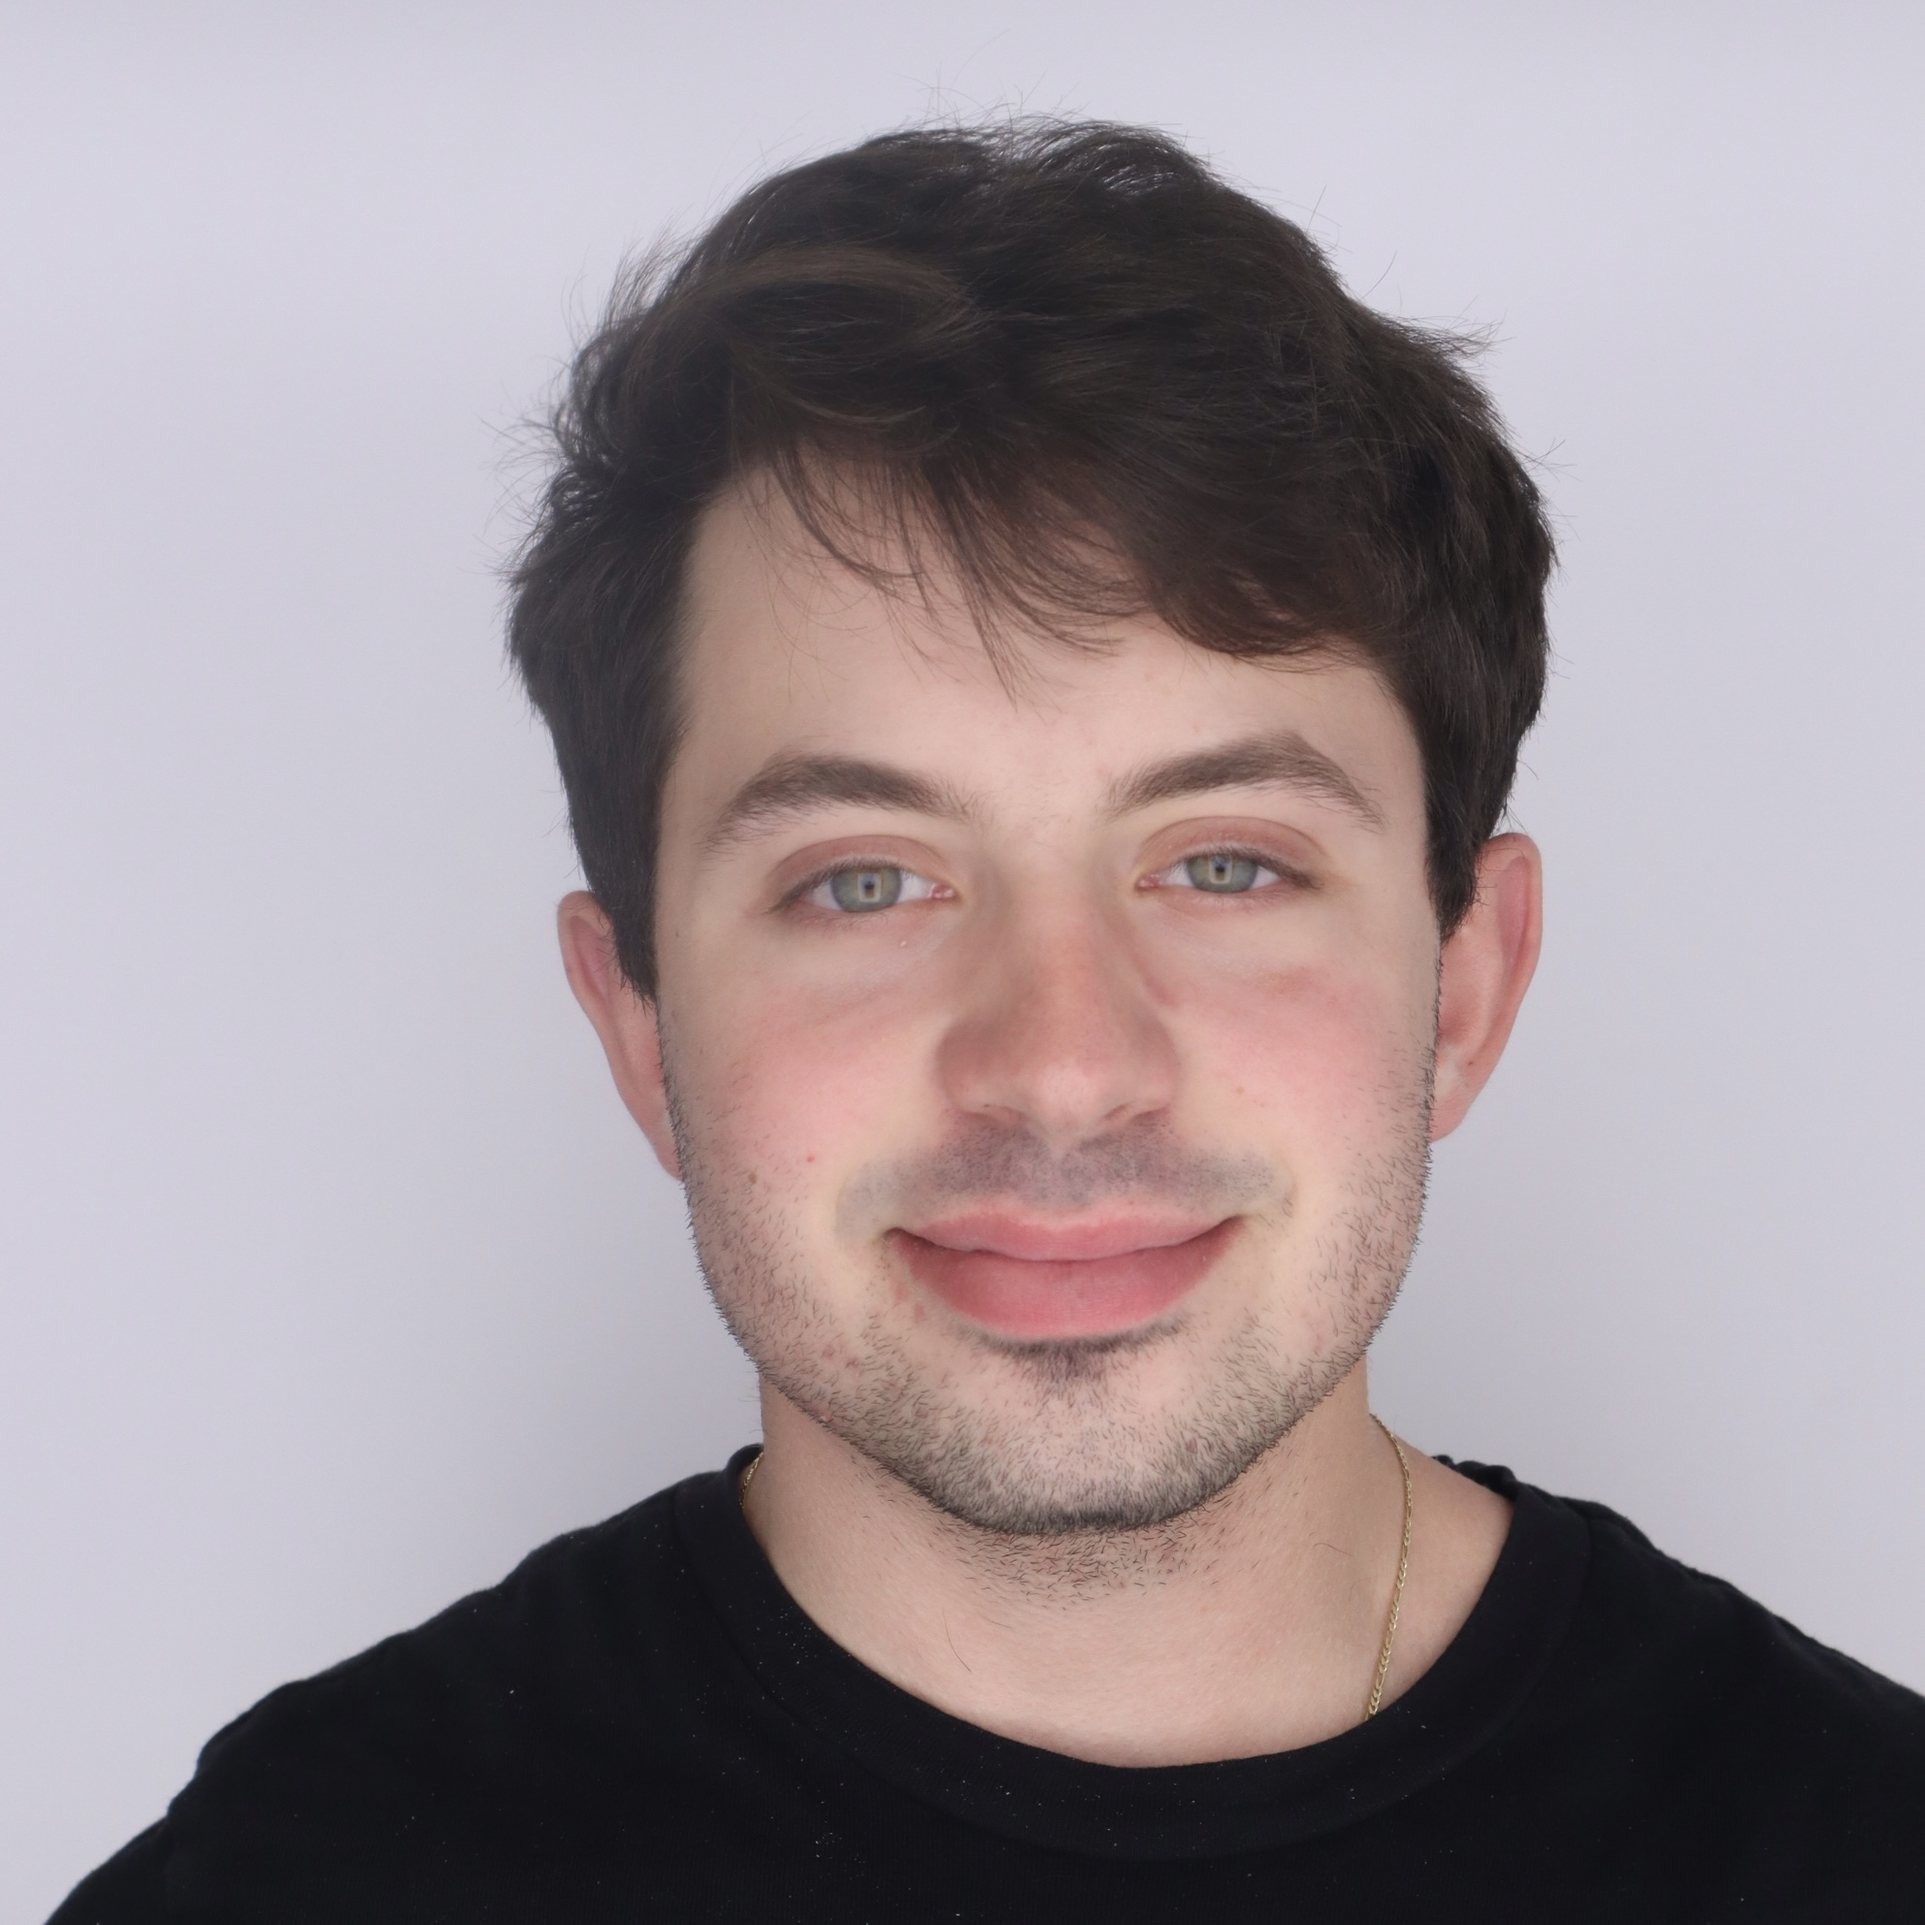
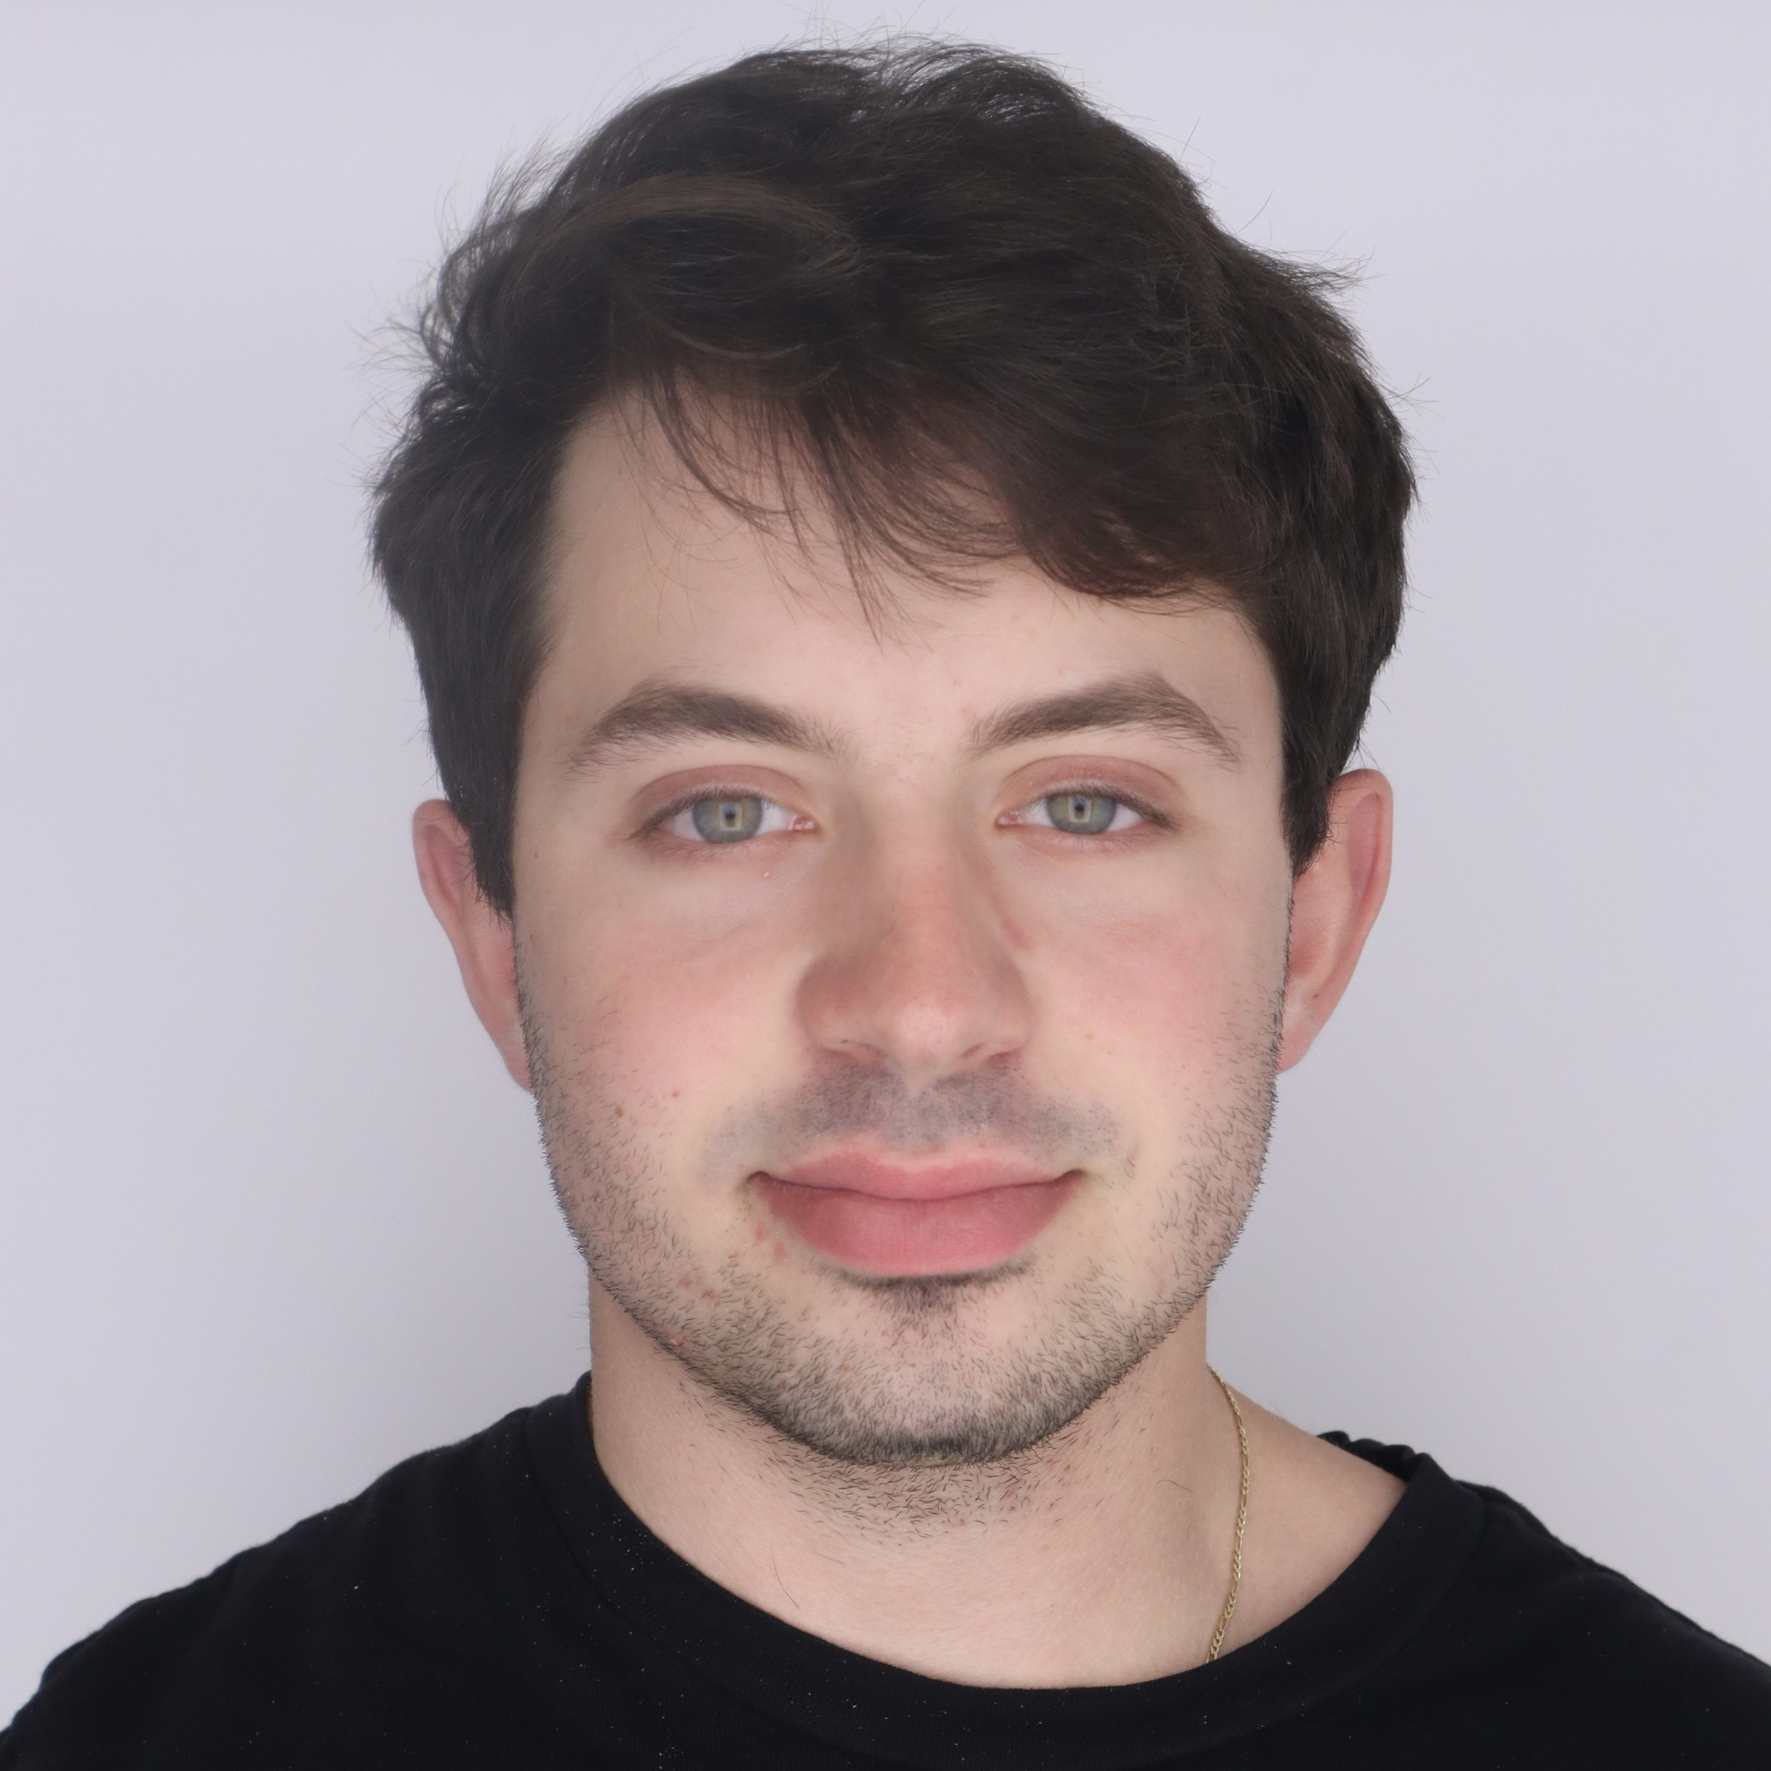
Finalized about

Changed region(s): [[0.1873, 0.0, 1.0, 0.9677], [0.0, 0.874, 0.1561, 1.0], [0.1561, 0.8116, 0.2809, 0.874]]

diff --git a/src/client/components/About.js b/src/client/components/About.js
@@ -3,37 +3,28 @@ import { LoadingWrapper } from "./shared";
 
 const people = [
   {
-    name: "Jack Harrington",
-    role: "Founder",
-    imageUrl: "/assets/jack.jpg",
-    // bio: "Praesentium iure error aliquam voluptas ut libero. Commodi placeat sit iure nulla officiis. Ut ex sit repellat tempora. Qui est accusamus exercitationem natus ut voluptas. Officiis velit eos ducimus.",
-    twitterUrl: "#",
-    linkedinUrl: "#",
-  },
-  {
     name: "Lucas Goldman",
     role: "Founder",
     imageUrl: "/assets/lucas.jpg",
-    // bio: "Praesentium iure error aliquam voluptas ut libero. Commodi placeat sit iure nulla officiis. Ut ex sit repellat tempora. Qui est accusamus exercitationem natus ut voluptas. Officiis velit eos ducimus.",
-    twitterUrl: "#",
-    linkedinUrl: "#",
+    linkedinUrl: "https://www.linkedin.com/in/lucas-goldman/",
+  },
+  {
+    name: "Jack Harrington",
+    role: "Founder",
+    imageUrl: "/assets/jack.jpg",
+    linkedinUrl: "https://www.linkedin.com/in/jharrington22/",
   },
   {
     name: "Joel Dahan",
     role: "Founder",
     imageUrl: "/assets/joel.jpeg",
-    // bio: "Praesentium iure error aliquam voluptas ut libero. Commodi placeat sit iure nulla officiis. Ut ex sit repellat tempora. Qui est accusamus exercitationem natus ut voluptas. Officiis velit eos ducimus.",
-    twitterUrl: "#",
-    linkedinUrl: "#",
+    linkedinUrl: "https://www.linkedin.com/in/joel-dahan-9989851ba/",
   },
   {
     name: "Cason Stone",
     role: "Founder",
-    imageUrl:
-      "https://images.unsplash.com/photo-1505840717430-882ce147ef2d?ixlib=rb-1.2.1&ixid=eyJhcHBfaWQiOjEyMDd9&auto=format&fit=facearea&facepad=8&w=1024&h=1024&q=80",
-    // bio: "Praesentium iure error aliquam voluptas ut libero. Commodi placeat sit iure nulla officiis. Ut ex sit repellat tempora. Qui est accusamus exercitationem natus ut voluptas. Officiis velit eos ducimus.",
-    twitterUrl: "#",
-    linkedinUrl: "#",
+    imageUrl: "/assets/cason.jpg",
+    linkedinUrl: "https://www.linkedin.com/in/cason-stone-3761421b0/",
   },
   // More people...
 ];
@@ -251,29 +242,12 @@ export const About = () => {
                   <p className="text-base leading-7 text-gray-600">
                     {person.role}
                   </p>
-                  {/*<p className="mt-4 text-base leading-7 text-gray-600">*/}
-                  {/*  {person.bio}*/}
-                  {/*</p>*/}
                   <ul role="list" className="mt-6 flex gap-x-6">
                     <li>
                       <a
-                        href={person.twitterUrl}
-                        className="text-gray-400 hover:text-gray-500"
-                      >
-                        <span className="sr-only">Twitter</span>
-                        <svg
-                          className="h-5 w-5"
-                          aria-hidden="true"
-                          fill="currentColor"
-                          viewBox="0 0 20 20"
-                        >
-                          <path d="M6.29 18.251c7.547 0 11.675-6.253 11.675-11.675 0-.178 0-.355-.012-.53A8.348 8.348 0 0020 3.92a8.19 8.19 0 01-2.357.646 4.118 4.118 0 001.804-2.27 8.224 8.224 0 01-2.605.996 4.107 4.107 0 00-6.993 3.743 11.65 11.65 0 01-8.457-4.287 4.106 4.106 0 001.27 5.477A4.073 4.073 0 01.8 7.713v.052a4.105 4.105 0 003.292 4.022 4.095 4.095 0 01-1.853.07 4.108 4.108 0 003.834 2.85A8.233 8.233 0 010 16.407a11.616 11.616 0 006.29 1.84" />
-                        </svg>
-                      </a>
-                    </li>
-                    <li>
-                      <a
                         href={person.linkedinUrl}
+                        target="_blank"
+                        rel="noopener noreferrer"
                         className="text-gray-400 hover:text-gray-500"
                       >
                         <span className="sr-only">LinkedIn</span>
